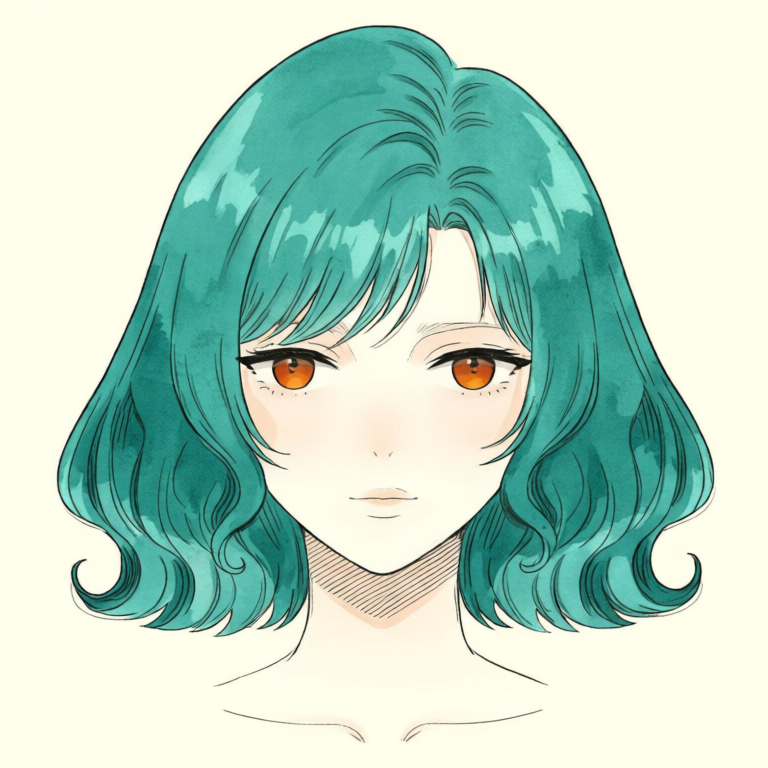
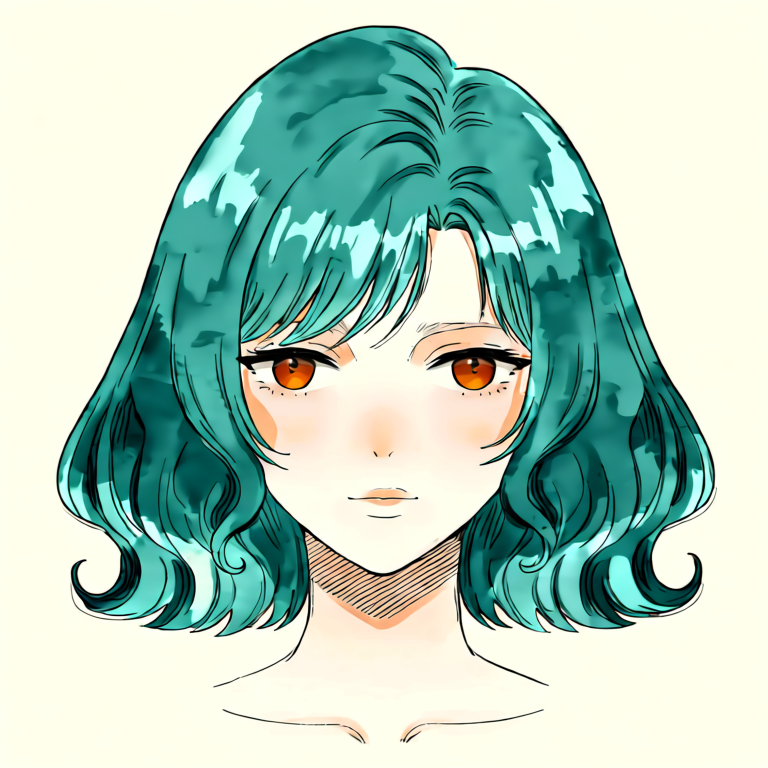
feat(p7-5-2): approve refreshed Qwen front reference

diff --git a/docs/assets/part-07/chapter-05/p7_5_2_qwen_edit_reference_pilot.py b/docs/assets/part-07/chapter-05/p7_5_2_qwen_edit_reference_pilot.py
@@ -51,11 +51,11 @@ HAIR_VOLUME_RULE = (
 
 TARGETS = {
     "face_front": {
-        "inputs": ("p7-5-2-face-front-reference.png",),
+        "inputs": (QWEN_FACE_REFERENCE,),
         "size": (768, 768),
         "prompt": (
-            "Use image 1 only as the exact front-face identity reference. Preserve its compact oval face, "
-            "petrol-teal jaw-length bob, and long slender almond eyes with gently upturned outer corners, moderately narrow "
+            "Use image 1 only as the exact Qwen front-face identity reference. Preserve its compact oval face, "
+            "petrol-teal jaw-length bob, long slender almond eyes with gently upturned outer corners, moderately narrow "
             "eyelid openings, and equal orange-amber irises. "
             f"{HAIR_VOLUME_RULE} Create one clean strict frontal head-and-neck "
             "studio reference. No text, panel, collage, accessory, or background scene."

diff --git a/management/release-notes/sections/part-07/P7-5.2.md b/management/release-notes/sections/part-07/P7-5.2.md
@@ -5,6 +5,7 @@
 
 ### v2026.08.18
 
+- Qwen 정면 기준 재승인: 화풍 계약에서 `Korean webtoon` 표현을 제거한 뒤, 이전 승인 Qwen 정면만 identity 입력으로 사용하는 v18 `seed=62294`, `768×768`, 20 step 후보를 사람 승인해 현재 정면 기준 PNG와 review 기록을 교체했다. 이전 Qwen 정면 입력은 Git revision으로 기록해 재현 이력을 보존한다.
 - Qwen 정면 기준 승인: P7-5.1 공통 화풍 계약을 positive prompt로만 결합한 `seed=62294`, `768×768`, 20 step 정면 얼굴을 사람 승인해 별도 Qwen 안정 자산으로 등록했다. 30·40 step 후보는 승인하지 않고 제거했으며, Qwen 후보 생성기의 기본값은 20 step으로 명시했다.
 - Qwen 정면 기준 갱신: P7-5.2 인물 전용 화풍 계약과 볼륨 단발 조건을 적용한 role-separated `seed=62294`, `768×768`, 20 step 정면 후보를 사람 승인해 현재 Qwen 기준으로 바꿨다. 이전 Qwen 정면 기준은 이력으로 보존하고, 같은 실행의 좌측 쿼터 후보는 승인하지 않았다.
 - Qwen OpenPose 좌측 쿼터 승인: 승인 Qwen 정면 identity와 인물 RGB가 없는 선언형 얼굴·목 OpenPose 맵을 각각 입력으로 쓴 `seed=119431`, `768×768`, 30 step의 얕은 좌측 전면 쿼터를 사람 승인했다. Flux 방향 이미지는 사용하지 않았으며, OpenPose 맵은 회전 구조만 전달한다.
